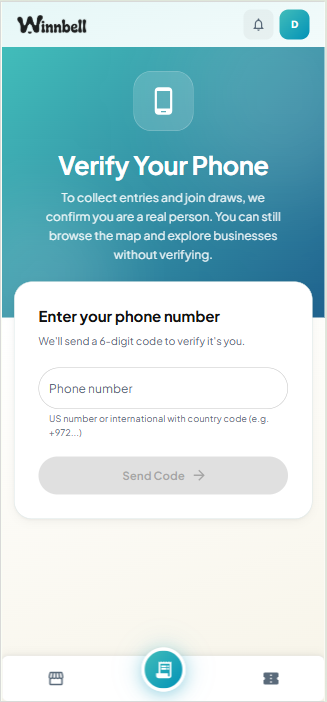
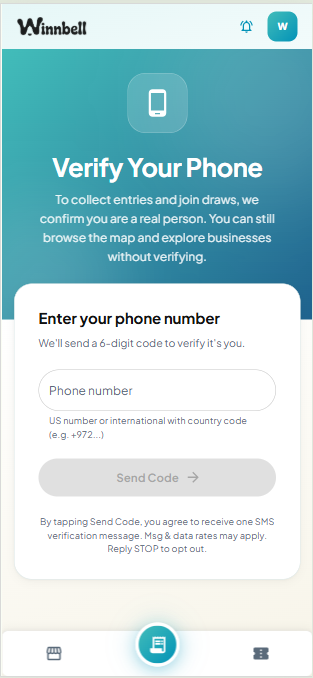
fixes

diff --git a/src/features/tickets/components/PhoneVerificationGate.tsx b/src/features/tickets/components/PhoneVerificationGate.tsx
@@ -146,6 +146,10 @@ const PhoneVerificationGate = ({ onVerified, pendingCode }: Props) => {
             >
               {isLoadingStep1 ? <CircularProgress size={24} color='inherit' /> : 'Send Code'}
             </Button>
+
+            <Typography variant='caption' sx={{ color: TEXT_SECONDARY, textAlign: 'center', lineHeight: 1.5 }}>
+              By tapping Send Code, you agree to receive one SMS verification message. Msg & data rates may apply. Reply STOP to opt out.
+            </Typography>
           </Stack>
         </motion.div>
       ) : (
@@ -179,9 +183,11 @@ const PhoneVerificationGate = ({ onVerified, pendingCode }: Props) => {
               inputMode='numeric'
               autoFocus
               fullWidth
-              inputProps={{
-                maxLength: 6,
-                style: { letterSpacing: '0.3em', fontSize: '1.25rem' },
+              slotProps={{
+                htmlInput: {
+                  maxLength: 6,
+                  style: { letterSpacing: '0.3em', fontSize: '1.25rem' },
+                },
               }}
             />
 
